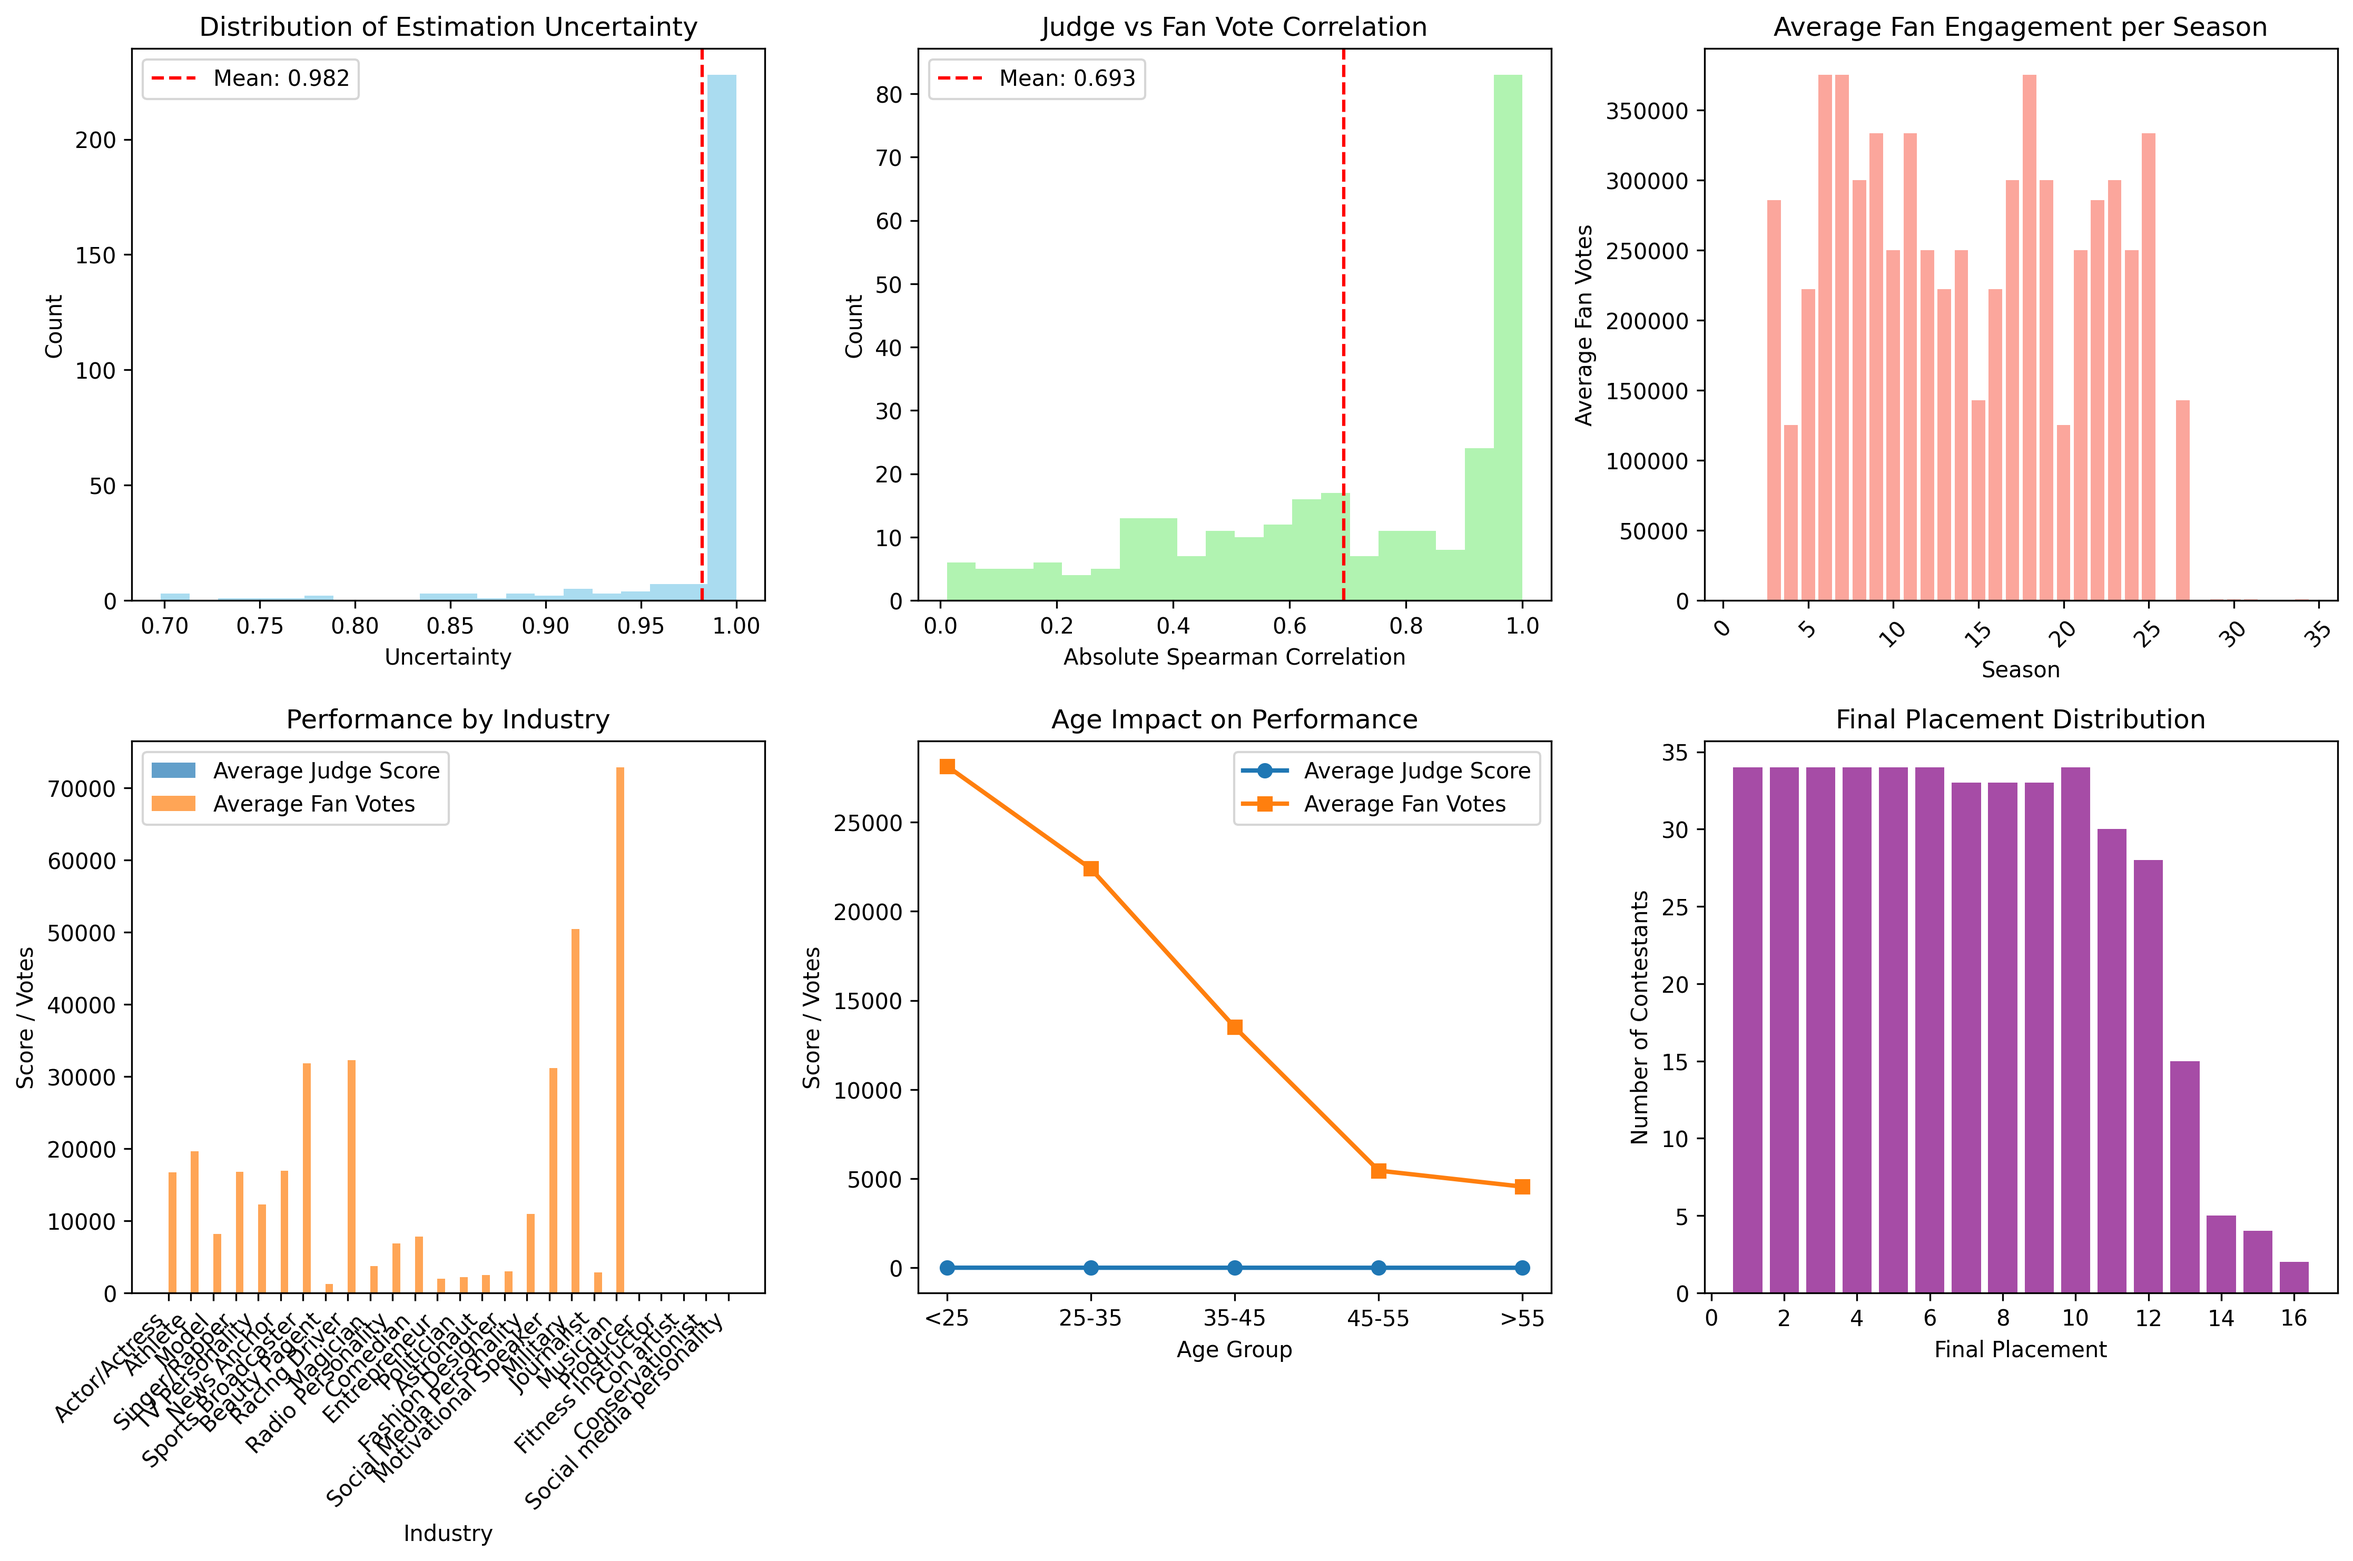
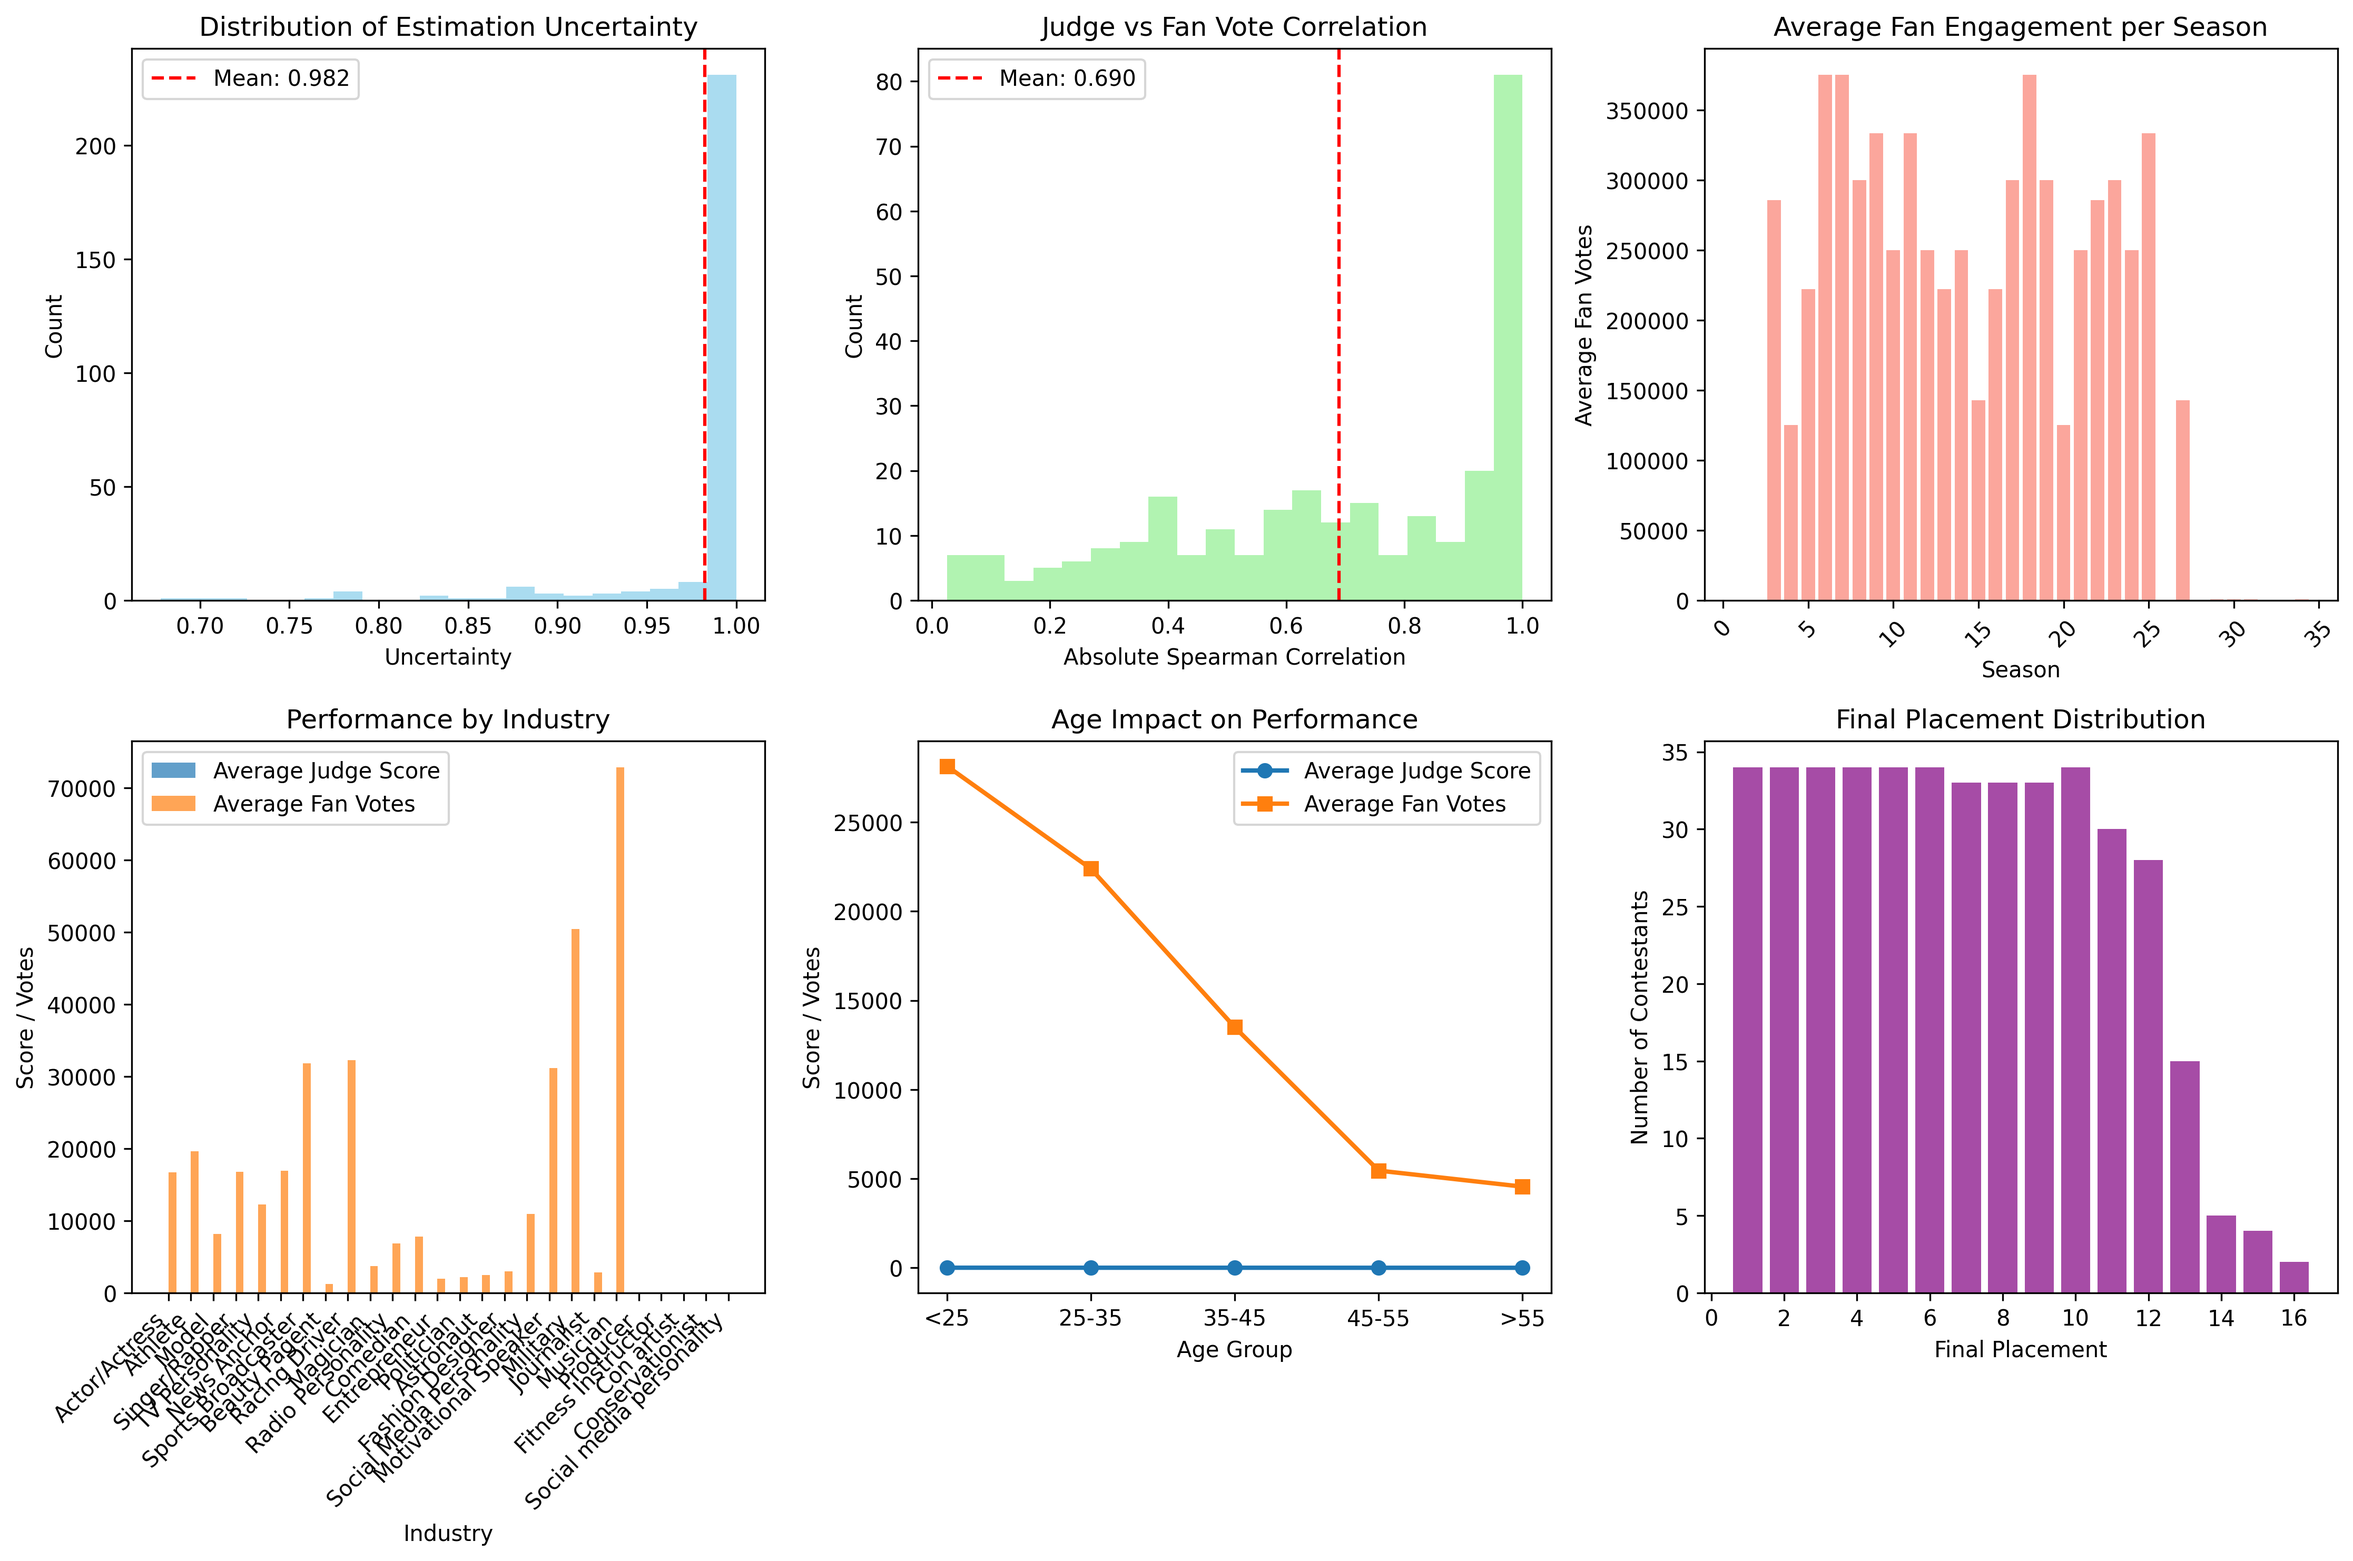
feat:update model 1

diff --git a/script/test/model1.py b/script/test/model1.py
@@ -918,7 +918,7 @@ class DWTSFanVoteEstimator:
             'min_samples_split': [2, 4, 6],
             'min_samples_leaf': [1, 2, 4]
         }
-        rs = RandomizedSearchCV(base_rf, param_dist, n_iter=40, cv=3, random_state=42, n_jobs=-1)
+        rs = RandomizedSearchCV(base_rf, param_dist, n_iter=120, cv=3, random_state=42, n_jobs=-1)
         rs.fit(X_train, y_train)
         rf_res = rs.best_estimator_
 
@@ -1132,7 +1132,7 @@ class DWTSFanVoteEstimator:
             'min_samples_split': [2, 4, 6],
             'min_samples_leaf': [1, 2, 4]
         }
-        rs = RandomizedSearchCV(base_rf, param_dist, n_iter=40, cv=3, random_state=42, n_jobs=-1)
+        rs = RandomizedSearchCV(base_rf, param_dist, n_iter=120, cv=3, random_state=42, n_jobs=-1)
         rs.fit(X_train_rf, res_train)
         rf_res = rs.best_estimator_
 

diff --git a/README.md b/README.md
@@ -10,7 +10,7 @@ MCM2026C/
 │   ├── raw/                # Raw data files
 │   ├── result/                # Result data files
 │   └── processed/          # Processed data files
-├── src/
+├── script/
 │   ├── data/             # Data processing scripts
 │   ├── model/           # Model training and evaluation scripts
 |   ├── plot/     # Visualization scripts
@@ -34,18 +34,18 @@ Commit message:
 First delete all the example files in the directory when you push your first actual files in the directory.
 1. Data Collection and Preprocessing
    - Collect raw data and store it in the `data/raw/` directory.
-   - Write data preprocessing scripts in `src/data/` to clean and transform the raw data.
+   - Write data preprocessing scripts in `script/data/` to clean and transform the raw data.
    - Save processed data in the `data/processed/` directory.
 2. Model Development
-   - Implement model training and evaluation scripts in `src/model/`.
+   - Implement model training and evaluation scripts in `script/model/`.
    - Use processed data from `data/processed/` for training and testing the models.
    - Store model results in the `data/result/` directory.
 3. Visualization
-   - Create visualization scripts in `src/plot/` to generate plots and charts based on model results.
+   - Create visualization scripts in `script/plot/` to generate plots and charts based on model results.
    - Save generated visualizations in an appropriate directory (e.g., `data/result/`).
 4. Analysis
-   - Write analysis scripts in `src/analysis/` to interpret model results and derive insights.
+   - Write analysis scripts in `script/analysis/` to interpret model results and derive insights.
    - Regularly commit and push changes to the remote repository to keep the project up-to-date.
 5. Test
-   - Implement testing scripts in `src/test/` to try new ideas and without disturbing the model folder.
+   - Implement testing scripts in `script/test/` to try new ideas and without disturbing the model folder.
    - Ensure that all new code is tested before integrating it into the main workflow.
